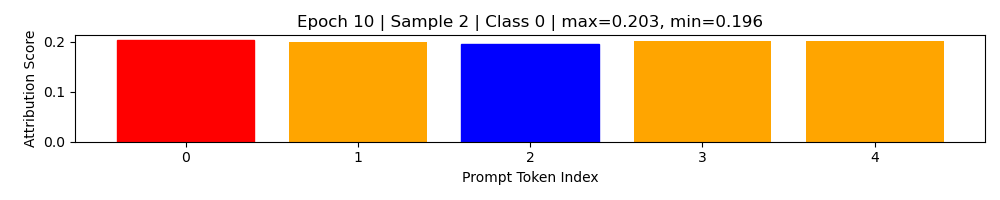
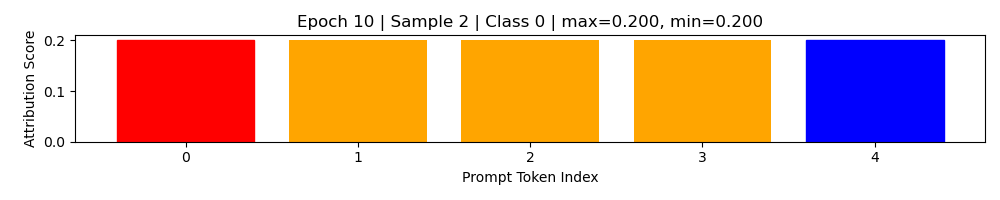
reexamine and fix some wrong of parameter

diff --git a/models/model_wrapper.py b/models/model_wrapper.py
@@ -1,12 +1,12 @@
 import torch
 import torch.nn as nn
 import torch.nn.functional as F
+from math import cos, pi
 
 from models.attribution_monitor import AttributionMonitor
 from models.prompt_adjustor import PromptAdjustor
 from models.prompt_learner import PromptLearner
 from utils.eval_metrics import attribution_entropy, attribution_variance
-from math import cos, pi
 
 
 class FullModel(nn.Module):
@@ -27,68 +27,59 @@ class FullModel(nn.Module):
         self.stab_lambda = stab_lambda
         self.logit_scale = nn.Parameter(torch.ones([]) * torch.log(torch.tensor(1 / 0.07)))
         self.warmup_epoch = warmup_epoch
-        self.training_epoch = 0  # for warmup schedule externally
+        self.training_epoch = 0
 
     def forward(self, images, labels=None, return_attribution=False):
         B = images.size(0)
-        use_attr = self.training_epoch >= self.warmup_epoch
+        max_len = self.clip.get_max_text_len()
 
-        raw_prompt = self.prompt_learner()
-        prompt_len = self.prompt_learner.prompt_len + self.prompt_learner.prefix_len
-        context_prompt = raw_prompt[:, :prompt_len, :]
-        class_tokens = raw_prompt[:, prompt_len:, :]
+        # 平滑插值系数：在 warmup_epoch 前逐渐从 0 增长至 1
+        scale = 0.5 * (1 - cos(pi * self.training_epoch / self.warmup_epoch)) \
+            if self.training_epoch < self.warmup_epoch else 1.0
 
-        image_feat = self.clip.encode_image(images)
+        prefix, context_bank, token_id_bank = self.prompt_learner.get_prompt_parts()
+        with torch.no_grad():
+            image_feat = self.clip.encode_image(images)
         image_feat = image_feat / image_feat.norm(dim=-1, keepdim=True)
 
-        if use_attr:
-            # Attribution-aware分支
-            prompt_list = []
-            for i in range(self.n_cls):
-                ctx = context_prompt[i].unsqueeze(0).expand(B, -1, -1)
-                cls = class_tokens[i].unsqueeze(0).expand(B, -1, -1)
-                prompt = torch.cat([ctx, cls], dim=1)
-                prompt_list.append(prompt)
-            all_prompts = torch.cat(prompt_list, dim=0)
+        def get_token_embedding(cls):
+            ids = token_id_bank[cls].to(images.device)
+            if ids.dim() == 2 and ids.size(0) == 1:
+                ids = ids.squeeze(0)
+            emb = self.clip.model.token_embedding(ids)
+            max_token_len = max_len - prefix.size(0) - context_bank[cls].size(0)
+            if emb.size(0) > max_token_len:
+                emb = emb[:max_token_len]
+            return emb.unsqueeze(0)
 
-            with torch.no_grad():
-                attn_map = self.clip.get_attention_weights_from_prompt_embedding(all_prompts)
+        prompt_list = []
+        all_attr = []
+        for cls in self.class_names:
+            pre = prefix.unsqueeze(0).expand(B, -1, -1)
+            ctx = context_bank[cls].unsqueeze(0).expand(B, -1, -1)
+            token = get_token_embedding(cls).expand(B, -1, -1)
 
-            BxC, T, T2 = attn_map.shape
-            assert T == T2 and BxC == B * self.n_cls
-            attn_map = attn_map.view(B, self.n_cls, T, T).permute(1, 0, 2, 3)
+            # 获取 attention 权重并做 attribution
+            prompt_for_attn = torch.cat([pre, ctx, token], dim=1)
+            attn_map = self.clip.get_attention_weights_from_prompt_embedding(prompt_for_attn)
+            attn_map = attn_map.view(B, attn_map.size(-1), attn_map.size(-1))
+            attr = self.attribution_monitor(attn_map)
 
-            all_attr = []
-            adjusted_prompts = []
-            for i in range(self.n_cls):
-                attr = self.attribution_monitor(attn_map[i])
-                ctx = context_prompt[i].unsqueeze(0).expand(B, -1, -1)
-                cls = class_tokens[i].unsqueeze(0).expand(B, -1, -1)
+            if self.training and torch.rand(1).item() < 0.05:
+                print(
+                    f"[ATTR] class={cls} mean={attr.mean().item():.4f}, std={attr.std().item():.4f}, scale={scale:.2f}")
 
-                prefix = ctx[:, :self.prompt_learner.prefix_len, :]
-                ctx_only = ctx[:, self.prompt_learner.prefix_len:, :]
-                adjusted_ctx = torch.cat([prefix, self.prompt_adjustor(ctx_only, attr)], dim=1)
-                prompt = torch.cat([adjusted_ctx, cls], dim=1)
+            adjusted = self.prompt_adjustor(ctx, attr)
+            adjusted_ctx = (1 - scale) * ctx + scale * adjusted  # 关键插值操作
+            full_prompt = torch.cat([pre, adjusted_ctx, token], dim=1)
+            prompt_list.append(full_prompt)
+            all_attr.append(attr)
 
-                all_attr.append(attr)
-                adjusted_prompts.append(prompt)
-
-            all_attr = torch.stack(all_attr, dim=1)
-            adjusted_prompts = torch.stack(adjusted_prompts, dim=1)
-        else:
-            # 无正则 fast 分支
-            prompt_list = []
-            for i in range(self.n_cls):
-                ctx = context_prompt[i].unsqueeze(0).expand(B, -1, -1)
-                cls = class_tokens[i].unsqueeze(0).expand(B, -1, -1)
-                prompt = torch.cat([ctx, cls], dim=1)
-                prompt_list.append(prompt)
-            adjusted_prompts = torch.stack(prompt_list, dim=1)
-            all_attr = None
+        adjusted_prompts = torch.stack(prompt_list, dim=1)  # [B, C, T, D]
+        all_attr = torch.stack(all_attr, dim=1)  # [B, C, prompt_len]
 
         flat_prompts = adjusted_prompts.view(B * self.n_cls, -1, adjusted_prompts.size(-1))
-        with torch.no_grad():
-            text_feat = self.clip.encode_text_from_embeddings(flat_prompts)
+        text_feat = self.manual_encode_text(flat_prompts)
         text_feat = text_feat / text_feat.norm(dim=-1, keepdim=True)
         text_feat = text_feat.view(B, self.n_cls, -1)
 
@@ -98,26 +89,37 @@ class FullModel(nn.Module):
 
         if labels is not None:
             loss_cls = F.cross_entropy(logits, labels)
-            scale = 0.5 * (1 - cos(
-                pi * self.training_epoch / self.warmup_epoch)) if self.training_epoch < self.warmup_epoch else 1.0
 
-            if use_attr:
-                entropy_loss = attribution_entropy(all_attr.mean(dim=1))
-                variance_loss = attribution_variance(all_attr.mean(dim=1), labels)
-                loss_total = loss_cls + scale * self.stab_lambda * entropy_loss + scale * self.attr_lambda * variance_loss
-                outputs.update({
-                    "loss": loss_total,
-                    "loss_cls": loss_cls,
-                    "loss_entropy": entropy_loss,
-                    "loss_variance": variance_loss
-                })
-            else:
-                outputs.update({
-                    "loss": loss_cls,
-                    "loss_cls": loss_cls
-                })
+            entropy_loss = attribution_entropy(all_attr.mean(dim=1))
+            variance_loss = attribution_variance(all_attr.mean(dim=1), labels)
 
-        if return_attribution and use_attr:
+            cos_sim = F.cosine_similarity(text_feat.unsqueeze(2), text_feat.unsqueeze(1), dim=-1)
+            div_loss = ((cos_sim - torch.eye(self.n_cls, device=cos_sim.device)) ** 2).mean()
+
+            loss_total = loss_cls + scale * (
+                    self.stab_lambda * entropy_loss +
+                    self.attr_lambda * variance_loss +
+                    0.1 * div_loss
+            )
+
+            outputs.update({
+                "loss": loss_total,
+                "loss_cls": loss_cls,
+                "loss_entropy": entropy_loss,
+                "loss_variance": variance_loss,
+                "loss_div": div_loss
+            })
+
+        if return_attribution:
             outputs["attribution"] = all_attr.mean(dim=1)
 
         return outputs
+
+    def manual_encode_text(self, prompt_emb):
+        # prompt_emb: [B*C, T, D]
+        x = prompt_emb + self.clip.model.positional_embedding[:prompt_emb.size(1)].to(prompt_emb.device)  # [B*C, T, D]
+        x = self.clip.model.transformer(x)  # 通常为 ResidualAttentionBlock stack
+        x = self.clip.model.ln_final(x)
+        # 通常第一个 token 是 [CLS] 或者用平均
+        x = x[torch.arange(x.shape[0]), -1]  # 如果模型是 [EOS] 聚合
+        return x  # shape [B*C, D]

diff --git a/models/prompt_learner.py b/models/prompt_learner.py
@@ -1,8 +1,12 @@
 import torch
 import torch.nn as nn
+import torch.nn.functional as F
+import random
+
 
 class PromptLearner(nn.Module):
-    def __init__(self, class_names, clip_model, prompt_len=5, prefix_len=5, use_init_prompt=True, device='cuda', max_len=77):
+    def __init__(self, class_names, clip_model, prompt_len=5, prefix_len=5,
+                 use_init_prompt=True, device='cuda', max_len=77):
         super().__init__()
         self.prompt_len = prompt_len
         self.prefix_len = prefix_len
@@ -13,15 +17,20 @@ class PromptLearner(nn.Module):
         self.use_init_prompt = use_init_prompt
         self.max_len = max_len
 
-        # Shared prefix prompt
+        # 多样化模板增强语义
+        self.templates = [
+            "a photo of a {}",
+            "a picture of the {}",
+            "an image of a {}",
+            "this is a {}",
+            "this is a photo of a {}",
+        ]
+
         self.prefix = nn.Parameter(torch.randn(prefix_len, self.ctx_dim))
-
-        # Class-specific prompt bank
         self.context_bank = nn.ParameterDict()
-        self.token_bank = {}
+        self.token_id_bank = {}
 
-        print(f"Using prefix_len={prefix_len}, class-specific context_len={prompt_len}, total limit={max_len}")
-
+        print(f"Using prefix_len={prefix_len}, prompt_len={prompt_len}, total limit={max_len}")
         for name in class_names:
             self.add_class_prompt(name)
 
@@ -30,42 +39,43 @@ class PromptLearner(nn.Module):
             return
 
         with torch.no_grad():
-            text = f"a photo of a {class_name}"
-            tokenized = self.tokenizer(text).to(self.device)
-            token_emb = self.token_embedding(tokenized.unsqueeze(0)).squeeze(0)
+            template = random.choice(self.templates)
+            text = template.format(class_name)
 
-            max_cls_token_len = self.max_len - (self.prefix_len + self.prompt_len)
-            if token_emb.shape[0] > max_cls_token_len:
-                # print(f"⚠ Class name '{class_name}' tokens too long ({token_emb.shape[0]}), truncating to {max_cls_token_len}")
-                token_emb = token_emb[:max_cls_token_len]
+            tokenized = self.tokenizer(text).to(self.device)  # [T]
+            valid_idx = tokenized != 0
+            tokenized = tokenized[valid_idx]
 
-            self.token_bank[class_name] = token_emb.to(self.device)
+            token_emb = self.token_embedding(tokenized.unsqueeze(0)).squeeze(0)  # [T, D]
 
-            if self.use_init_prompt and token_emb.shape[0] >= 5 + self.prompt_len:
-                ctx_init = token_emb[5:5 + self.prompt_len].clone()
+            # 限制 token embedding 长度并补齐到 max_token_len
+            max_token_len = self.max_len - self.prefix_len - self.prompt_len
+            if token_emb.shape[0] > max_token_len:
+                token_emb = token_emb[:max_token_len]
+                tokenized = tokenized[:max_token_len]
+            else:
+                pad_len = max_token_len - token_emb.shape[0]
+                token_emb = F.pad(token_emb, (0, 0, 0, pad_len))        # [T+pad_len, D]
+                tokenized = F.pad(tokenized, (0, pad_len), value=0)     # [T+pad_len]
+
+            # 初始化 context embedding
+            if self.use_init_prompt and token_emb.shape[0] >= self.prompt_len:
+                center = token_emb.shape[0] // 2
+                start = max(center - self.prompt_len // 2, 0)
+                end = start + self.prompt_len
+                if end > token_emb.shape[0]:
+                    end = token_emb.shape[0]
+                    start = end - self.prompt_len
+                ctx_init = token_emb[start:end].clone()
                 ctx_init = (ctx_init - ctx_init.mean(dim=0)) / (ctx_init.std(dim=0) + 1e-6)
             else:
                 ctx_init = torch.randn(self.prompt_len, self.ctx_dim).to(self.device)
 
         self.context_bank[class_name] = nn.Parameter(ctx_init)
+        self.token_id_bank[class_name] = tokenized
 
-    def forward(self):
-        prompts = []
-        for cls in self.context_bank:
-            prefix = self.prefix.unsqueeze(0)  # [1, prefix_len, D]
-            ctx = self.context_bank[cls].unsqueeze(0)  # [1, prompt_len, D]
-            token = self.token_bank[cls].unsqueeze(0) if self.token_bank[cls].dim() == 2 else self.token_bank[cls]
-
-            total_len = prefix.size(1) + ctx.size(1) + token.size(1)
-            if total_len > self.max_len:
-                excess = total_len - self.max_len
-                # print(f"⚠ Prompt for '{cls}' too long ({total_len}), trimming class token by {excess} tokens")
-                token = token[:, :-excess]
-
-            prompt = torch.cat([prefix, ctx, token], dim=1)  # [1, T, D]
-            prompts.append(prompt)
-
-        return torch.cat(prompts, dim=0)  # [C, T, D]
+    def get_prompt_parts(self):
+        return self.prefix, self.context_bank, self.token_id_bank
 
     @property
     def n_cls(self):

diff --git a/train.py b/train.py
@@ -37,10 +37,11 @@ def train():
     patience = 10
     lr = 2e-3
     decay = 0.01
-    warmup_epoch = 20
+    warmup_epoch = 5
     seed = 42
     resume = False
-    class_names = ["Backpack", "Alarm_Clock", "Laptop", "Pen", "Mug"]
+    class_names = ["Backpack", "Alarm_Clock", "Laptop", "Pen", "Mug", "Curtains", "Glasses", "Scissors", "Webcam"]
+
     pretrained_path = "G:/dsCLIP/open_clip_pytorch_model.bin"
 
     os.makedirs(base_dir, exist_ok=True)
@@ -67,6 +68,9 @@ def train():
         class_specific=True,
         warmup_epoch=warmup_epoch
     ).to(device)
+    print("🔍 Checking trainable parameters in PromptLearner:")
+    for name, param in model.prompt_learner.named_parameters():
+        print(f"{name} - requires_grad: {param.requires_grad}")
 
     # ===================== Logging =====================
     log_file = os.path.join(log_dir, f"train_{tag}.log")
@@ -117,7 +121,14 @@ def train():
     entropy_list = []
     variance_list = []
     current = 0
+    acc = evaluate_accuracy(model, val_loader, device)
+    acc_list.append(acc)
+    logging.info(f"[Initial] 🧪 Val Accuracy: {acc:.2f}%")
 
+    per_cls_acc = evaluate_per_class_accuracy(model, val_loader, device, class_names)
+    for cls in class_names:
+        per_class_dict[cls].append(per_cls_acc[cls])
+    logging.info(f"[Initial] 📊 Per-Class Accuracy: {per_cls_acc}")
     # ===================== 训练循环 =====================
     for epoch in range(start_epoch, epochs + 1):
         model.train()
@@ -162,7 +173,7 @@ def train():
             per_class_dict[cls].append(per_cls_acc[cls])
         logging.info(f"[Epoch {epoch}] 📊 Per-Class Accuracy: {per_cls_acc}")
 
-        if epoch % 10 == 0:
+        if epoch % 10 == 0 and model.training_epoch >= model.warmup_epoch:
             _ = visualize_attribution_for_class(model, val_loader, target_class=0, epoch=epoch, device=device)
 
         # ===================== Early Stopping & Checkpoint =====================

diff --git a/models/clip_wrapper.py b/models/clip_wrapper.py
@@ -22,6 +22,9 @@ class CLIPWrapper(nn.Module):
 
         self.tokenizer = open_clip.get_tokenizer(model_name)
 
+        # ✅ 添加这一行：暴露 token embedding 层给外部访问
+        self.token_embedding = self.model.token_embedding
+
     def _register_text_attention_hook(self):
         def hook_fn(module, input, output):
             # output[0]: [B, H, T, T] or sometimes [H, T, T]
@@ -104,25 +107,6 @@ class CLIPWrapper(nn.Module):
 
         return torch.cat(outputs, dim=0)  # [B*C, T, T]
 
-    def encode_text_from_embeddings(self, token_embeddings, eot_index=None):
-        """
-        Args:
-            token_embeddings: [B, T, D] 输入的是 embedding（非 token id）
-            eot_index: 指定用于提取文本特征的位置索引，默认使用最后一个 token
-        Returns:
-            text features: [B, D]
-        """
-        x = token_embeddings + self.model.positional_embedding[:token_embeddings.size(1)].to(token_embeddings.device)
-        x = x.permute(1, 0, 2)  # [T, B, D]
-        x = self.model.transformer(x)
-        x = x.permute(1, 0, 2)  # [B, T, D]
-        x = self.model.ln_final(x)
-
-        if eot_index is None:
-            eot_index = x.shape[1] - 1  # 默认最后一位
-        x = x[torch.arange(x.shape[0]), eot_index, :]
-        x = x @ self.model.text_projection
-        return x
 
     def get_max_text_len(self):
         return self.model.positional_embedding.size(0)
